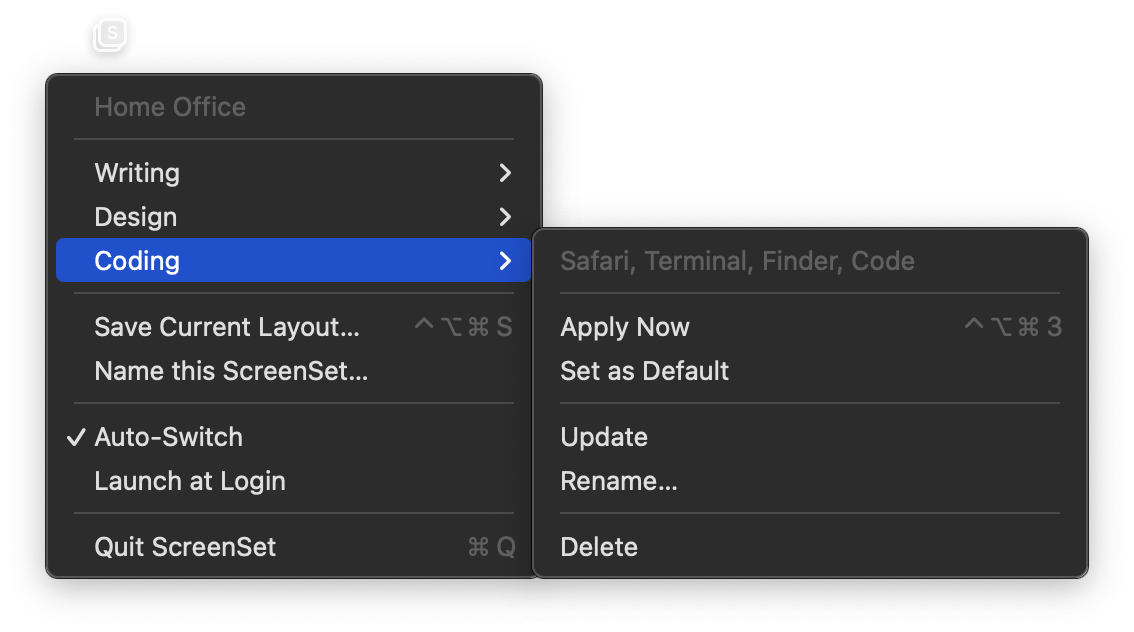
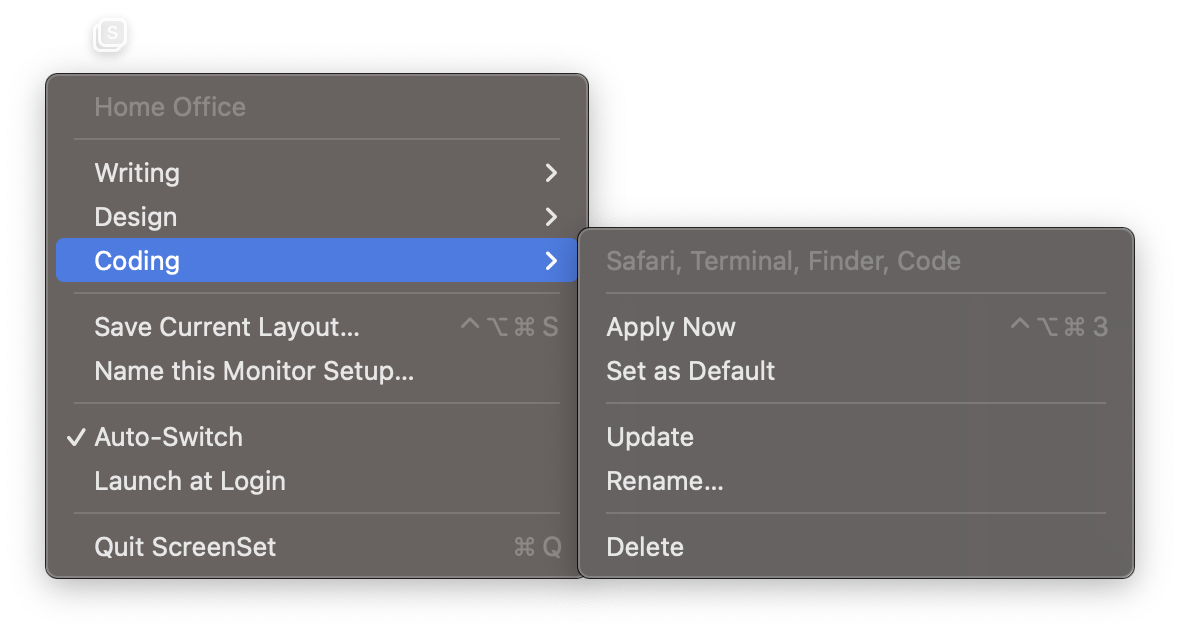
site: Monitor Setup terminology — new screenshot + Auto-Switch card

diff --git a/htdocs/index.html b/htdocs/index.html
@@ -40,17 +40,17 @@
         <section class="band center" id="how">
             <span class="label">Your windows, handled</span>
             <h2>Set it once. Then forget it.</h2>
-            <p class="lede">Three ways ScreenSet keeps your workspace exactly how you like it.</p>
+            <p class="lede">Three ways ScreenSet keeps your windows exactly how you like them.</p>
             <div class="feat">
                 <div class="fcard">
                     <div class="ficon"><svg viewBox="0 0 24 24"><rect x="3" y="4" width="18" height="16" rx="2"/><path d="M3 9h18M9 9v11"/></svg></div>
                     <h3>Save your layouts</h3>
-                    <p>Arrange your windows the way you like, name the setup, and save it. Coding, Writing, Design — whatever you run, ScreenSet keeps it.</p>
+                    <p>Arrange your windows the way you like, name it, and save. Coding, Writing, Design — whatever you run, ScreenSet keeps it.</p>
                 </div>
                 <div class="fcard">
                     <div class="ficon"><svg viewBox="0 0 24 24"><rect x="2" y="4" width="20" height="13" rx="2"/><path d="M8 21h8M12 17v4"/></svg></div>
                     <h3>Auto-Switch <span class="badge">$5.99</span></h3>
-                    <p>Dock, undock, or swap monitors and your exact arrangement returns on its own — no clicks, no rearranging. The magic that makes it feel alive.</p>
+                    <p>Your layouts are grouped by monitor setup. When your displays change, ScreenSet restores the right setup automatically — no clicks, no rearranging.</p>
                 </div>
                 <div class="fcard">
                     <div class="ficon"><svg viewBox="0 0 24 24"><rect x="2" y="6" width="20" height="12" rx="2"/><path d="M6 10h.01M10 10h.01M14 10h.01M8 14h8"/></svg></div>